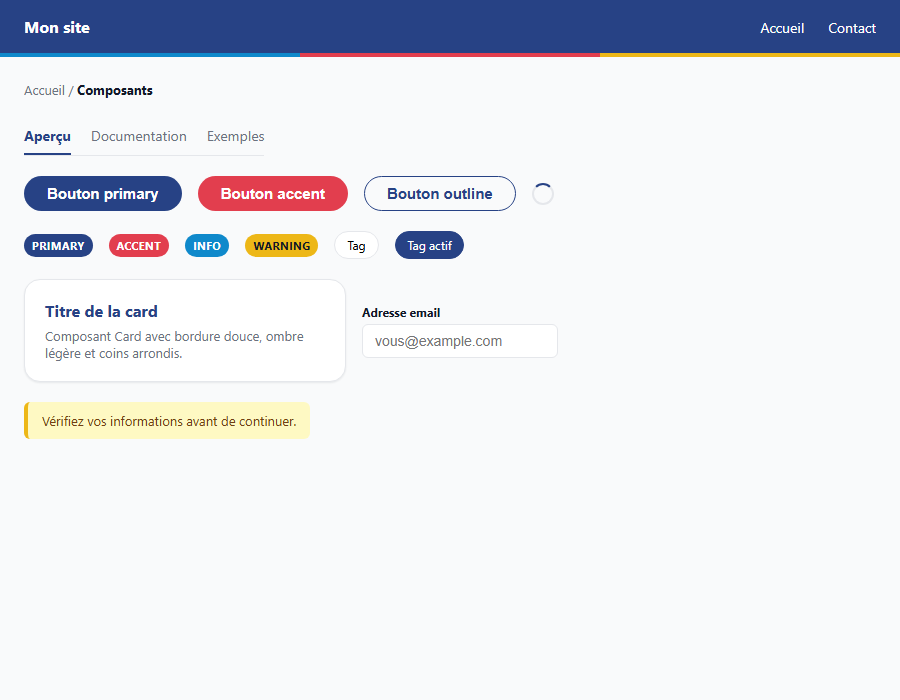
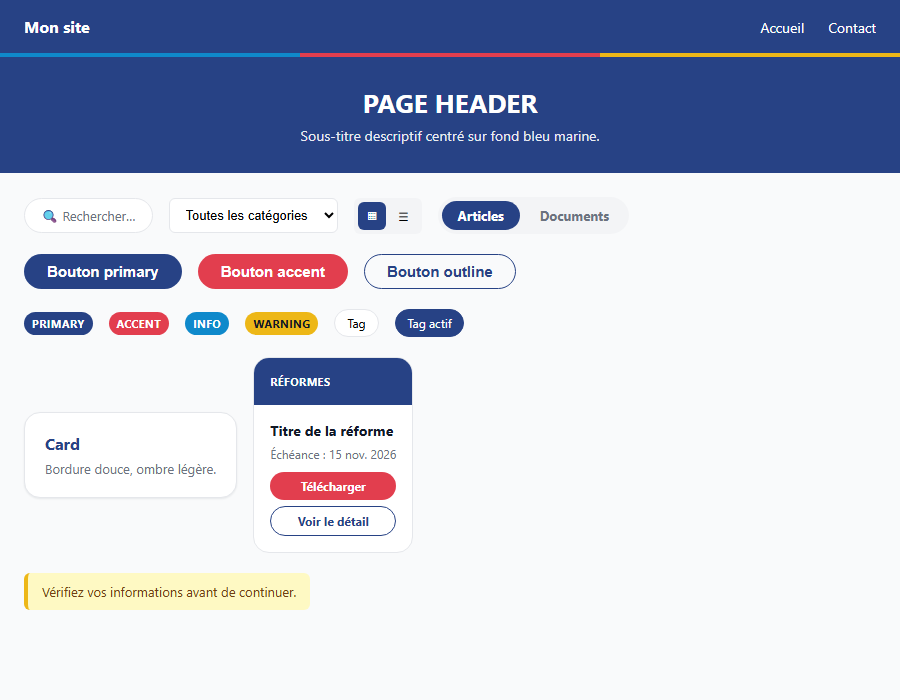
Version Packages: nglui@0.3.0

Changed region(s): [[0.0, 0.06, 1.0, 0.75], [0.0, 0.81, 0.3422, 0.87]]

diff --git a/CHANGELOG.md b/CHANGELOG.md
@@ -1,5 +1,15 @@
 # nglui
 
+## 0.3.0
+
+### Minor Changes
+
+- Add 10 more `nglui/ui` components based on real UI patterns found across the source site's subpages: `PageHeader`, `SearchBar`, `Select`, `ViewToggle`, `SegmentedTabs`, `Skeleton`, `FormGrid`, `InfoBlock`, `ReformCard`, `ImageBadge`.
+
+### Patch Changes
+
+- Fix `PageHeader` and `InfoBlock` prop types (`title: ReactNode` conflicted with the native `HTMLAttributes.title: string`), and export `PageHeader` from `nglui/ui`.
+
 ## 0.2.0
 
 ### Minor Changes
